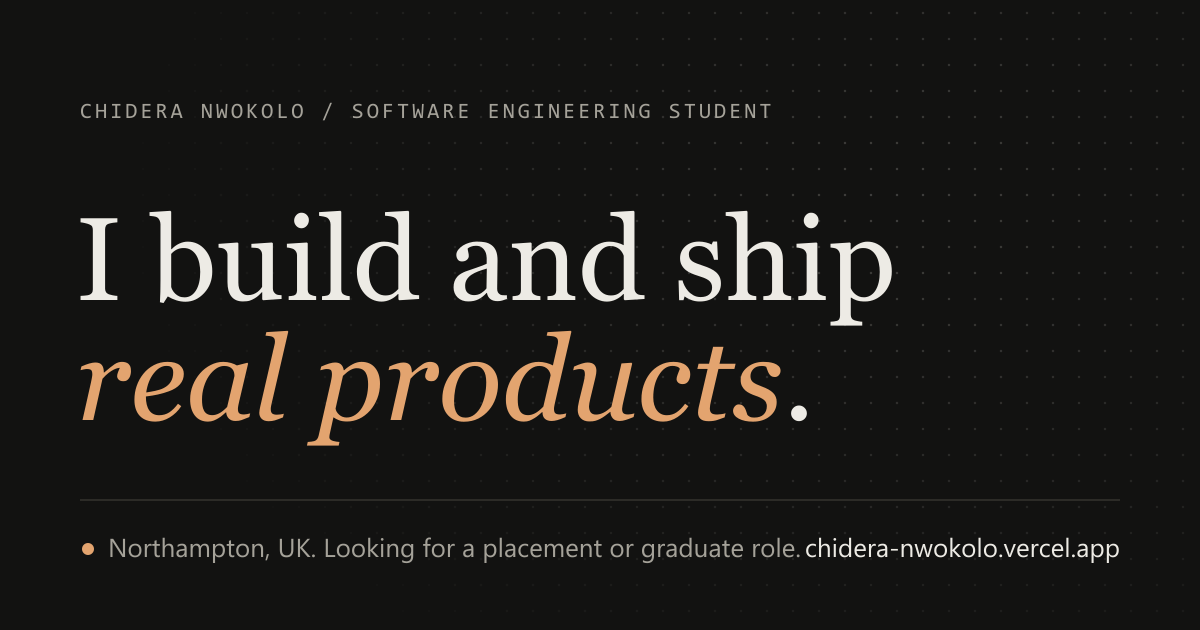
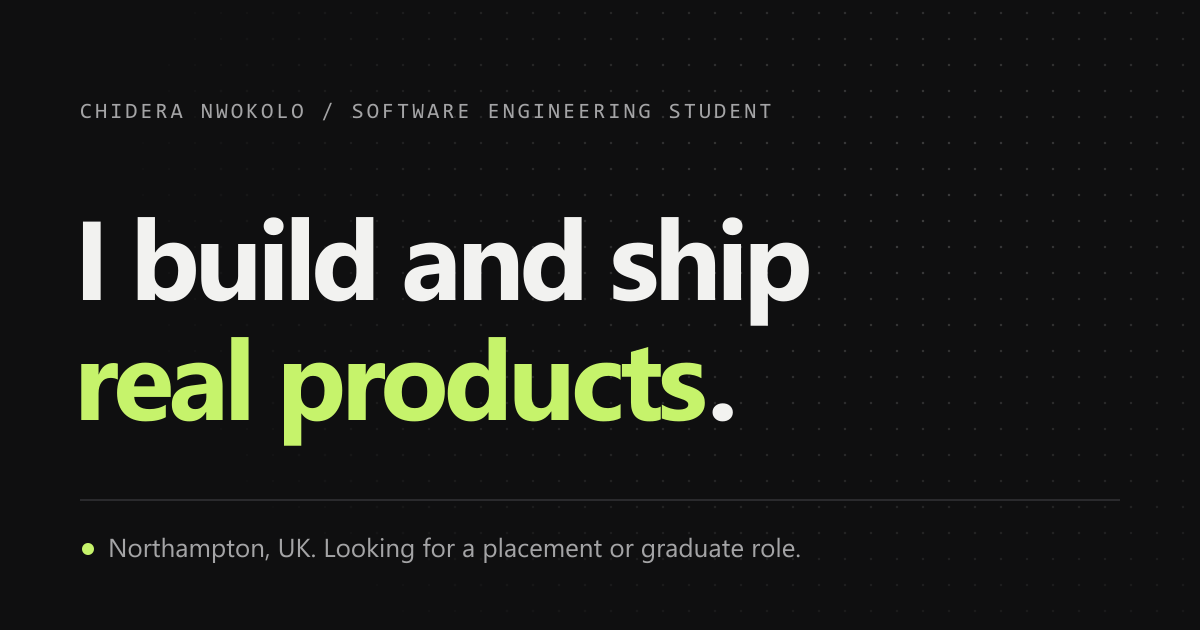
New visual identity: bold sans headlines, electric lime accent

diff --git a/src/index.css b/src/index.css
@@ -2,17 +2,17 @@
 
 /* Design tokens. Change the palette here and the whole site follows. */
 @theme {
-  --color-ink: #121211; /* page background, deep charcoal */
-  --color-surface: #181816; /* cards */
-  --color-raised: #1f1f1c; /* hover and inset areas */
-  --color-line: #2c2b27; /* hairlines */
-  --color-paper: #edebe5; /* main text, soft off-white */
-  --color-muted: #a5a299; /* secondary text, 7:1 on ink */
-  --color-subtle: #87857d; /* tertiary text, 4.9:1 on ink */
-  --color-accent: #e3a46f; /* the one accent, warm clay */
+  --color-ink: #0f0f10; /* page background, near-black */
+  --color-surface: #161617; /* cards */
+  --color-raised: #1e1e20; /* hover and inset areas */
+  --color-line: #2a2a2d; /* hairlines */
+  --color-paper: #f2f2f0; /* main text, clean white */
+  --color-muted: #a4a4a6; /* secondary text, 7.6:1 on ink */
+  --color-subtle: #87878a; /* tertiary text, 5.2:1 on ink */
+  --color-accent: #c6f36b; /* the one accent, electric lime */
 
   --font-sans: 'Geist', ui-sans-serif, system-ui, sans-serif;
-  --font-serif: 'Instrument Serif', ui-serif, Georgia, serif;
+  --font-display: 'Geist', ui-sans-serif, system-ui, sans-serif; /* headlines, set bold and tight */
   --font-mono: 'Geist Mono', ui-monospace, SFMono-Regular, Menlo, monospace;
 
   --ease-out-expo: cubic-bezier(0.22, 1, 0.36, 1);
@@ -33,6 +33,11 @@
     -webkit-font-smoothing: antialiased;
     -moz-osx-font-smoothing: grayscale;
     text-rendering: optimizeLegibility;
+  }
+
+  /* Accent words inside headlines are coloured, not italic. */
+  em {
+    font-style: normal;
   }
 
   ::selection {
@@ -78,7 +83,7 @@
   }
 
   .dot-spotlight {
-    background-image: radial-gradient(circle at center, rgb(227 164 111 / 0.7) 1px, transparent 1.6px);
+    background-image: radial-gradient(circle at center, rgb(198 243 107 / 0.65) 1px, transparent 1.6px);
     background-size: 26px 26px;
     mask-image: radial-gradient(220px circle at var(--mx, -500px) var(--my, -500px), #000, transparent 70%);
   }

diff --git a/index.html b/index.html
@@ -9,7 +9,7 @@
       content="Chidera Nwokolo, Software Engineering student at the University of Northampton. I build and ship real products, including DERA, a Buy Now Pay Later debt tracker. Looking for a placement or graduate role."
     />
     <meta name="author" content="Chidera Nwokolo" />
-    <meta name="theme-color" content="#121211" />
+    <meta name="theme-color" content="#0f0f10" />
     <link rel="canonical" href="https://chidera-nwokolo.vercel.app/" />
     <link rel="icon" href="/favicon.svg" type="image/svg+xml" />
     <link rel="apple-touch-icon" href="/apple-touch-icon.png" />
@@ -53,17 +53,17 @@
     <link rel="preconnect" href="https://fonts.gstatic.com" crossorigin />
     <link
       rel="stylesheet"
-      href="https://fonts.googleapis.com/css2?family=Geist:wght@300..600&family=Geist+Mono:wght@400;500&family=Instrument+Serif:ital@0;1&display=swap"
+      href="https://fonts.googleapis.com/css2?family=Geist:wght@300..700&family=Geist+Mono:wght@400;500&display=swap"
     />
     <style>
       /* Paint the page dark before CSS loads so there is no white flash. */
-      html { background: #121211; }
+      html { background: #0f0f10; }
     </style>
   </head>
   <body>
     <div id="root"></div>
     <noscript>
-      <p style="color:#edebe5;font-family:system-ui;padding:2rem">
+      <p style="color:#f2f2f0;font-family:system-ui;padding:2rem">
         Chidera Nwokolo, Software Engineering student. Email nwokolohenryjr8@gmail.com or see github.com/Derahenry.
       </p>
     </noscript>

diff --git a/src/components/Nav.tsx b/src/components/Nav.tsx
@@ -64,9 +64,9 @@ export function Nav() {
           <a href="#home" className="group flex items-center gap-2.5" aria-label={`${profile.name}, back to top`}>
             <span
               aria-hidden="true"
-              className="grid size-8 place-items-center rounded-full border border-line font-serif text-[0.95rem] italic text-accent transition-colors duration-300 group-hover:border-accent"
+              className="grid size-8 place-items-center rounded-full border border-line font-display text-[0.68rem] font-bold tracking-tight text-accent transition-colors duration-300 group-hover:border-accent"
             >
-              cn
+              CN
             </span>
             <span className="text-[0.95rem] font-medium tracking-tight">{profile.name}</span>
           </a>
@@ -152,7 +152,7 @@ export function Nav() {
                     ref={index === 0 ? firstLinkRef : undefined}
                     href={`#${item.id}`}
                     onClick={() => setOpen(false)}
-                    className="flex items-baseline gap-4 py-2 font-serif text-5xl text-paper"
+                    className="flex items-baseline gap-4 py-2 font-display font-semibold text-5xl tracking-[-0.04em] text-paper"
                     initial={{ y: '100%' }}
                     animate={{ y: '0%' }}
                     transition={{ duration: 0.6, ease, delay: 0.05 + index * 0.06 }}

diff --git a/src/components/projects/ProjectCard.tsx b/src/components/projects/ProjectCard.tsx
@@ -16,7 +16,7 @@ export function ProjectCard({ project, index }: { project: Project; index: numbe
           <span className="text-accent">{String(index + 1).padStart(2, '0')}</span>
           <span>{project.period}</span>
         </p>
-        <h3 id={headingId} className={`mt-4 font-serif leading-none tracking-tight ${compact ? 'text-4xl' : 'text-5xl'}`}>
+        <h3 id={headingId} className={`mt-4 font-display font-semibold leading-none tracking-[-0.045em] ${compact ? 'text-4xl' : 'text-[2.4rem] min-[400px]:text-[2.7rem] sm:text-5xl'}`}>
           {project.name}
         </h3>
         <p className="mt-2 text-paper/90">{project.tagline}</p>
@@ -34,7 +34,7 @@ export function ProjectCard({ project, index }: { project: Project; index: numbe
             {project.facts.map((fact) => (
               <div key={fact.label} className="flex flex-col-reverse gap-1">
                 <dt className="text-xs leading-snug text-muted">{fact.label}</dt>
-                <dd className="font-serif text-3xl text-paper">{fact.value}</dd>
+                <dd className="font-display font-semibold text-3xl tracking-[-0.04em] text-paper">{fact.value}</dd>
               </div>
             ))}
           </dl>

diff --git a/src/components/projects/FeaturedProject.tsx b/src/components/projects/FeaturedProject.tsx
@@ -23,7 +23,7 @@ export function FeaturedProject({ project, index }: { project: Project; index: n
               <span aria-hidden="true">·</span>
               <span>{project.period}</span>
             </p>
-            <h3 id={headingId} className="mt-5 font-serif text-6xl leading-none tracking-tight sm:text-7xl">
+            <h3 id={headingId} className="mt-5 font-display font-semibold text-6xl leading-none tracking-[-0.05em] sm:text-7xl">
               {project.name}
             </h3>
             <p className="mt-3 text-lg text-paper/90">{project.tagline}</p>
@@ -63,7 +63,7 @@ export function FeaturedProject({ project, index }: { project: Project; index: n
                 } ${i === 2 ? 'md:border-l' : ''}`}
               >
                 <dt className="text-sm text-muted">{fact.label}</dt>
-                <dd className="font-serif text-3xl text-paper sm:text-4xl">{fact.value}</dd>
+                <dd className="font-display font-semibold text-3xl tracking-[-0.04em] text-paper sm:text-4xl">{fact.value}</dd>
               </motion.div>
             ))}
           </motion.dl>

diff --git a/src/components/SectionHeading.tsx b/src/components/SectionHeading.tsx
@@ -10,7 +10,7 @@ type SectionHeadingProps = {
   id?: string
 }
 
-/** Numbered section header: "01 / Projects" over a large serif title. */
+/** Numbered section header: "01 / Projects" over a large bold title. */
 export function SectionHeading({ index, label, title, intro, id }: SectionHeadingProps) {
   return (
     <motion.header
@@ -28,7 +28,7 @@ export function SectionHeading({ index, label, title, intro, id }: SectionHeadin
       <motion.h2
         id={id}
         variants={fadeUp}
-        className="mt-5 max-w-3xl font-serif text-[2.6rem] leading-[1.02] tracking-[-0.01em] text-paper sm:text-6xl"
+        className="mt-5 max-w-3xl font-display font-semibold text-[2.4rem] leading-[1.02] tracking-[-0.045em] text-paper sm:text-[3.5rem]"
       >
         {title}
       </motion.h2>

diff --git a/src/sections/Hero.tsx b/src/sections/Hero.tsx
@@ -82,7 +82,7 @@ export function Hero() {
 
           <h1
             id="hero-title"
-            className="mt-5 font-serif text-[3.4rem] leading-[0.95] tracking-[-0.02em] text-paper min-[400px]:text-[4rem] sm:text-[5.5rem] lg:text-[7.5rem]"
+            className="mt-5 font-display font-semibold text-[2.6rem] leading-[0.98] tracking-[-0.05em] text-paper min-[400px]:text-[3rem] sm:text-[4.5rem] lg:text-[6.5rem]"
           >
             {headline.map((line, lineIndex) => (
               <span key={lineIndex} className="block overflow-hidden pb-[0.08em]">

diff --git a/src/sections/Contact.tsx b/src/sections/Contact.tsx
@@ -41,7 +41,7 @@ export function Contact() {
           </motion.p>
           <h2
             id="contact-title"
-            className="mt-6 font-serif text-[3.2rem] leading-[0.95] tracking-[-0.02em] sm:text-8xl lg:text-[8.5rem]"
+            className="mt-6 font-display font-semibold text-[2.4rem] leading-[0.98] tracking-[-0.05em] min-[400px]:text-[2.7rem] sm:text-6xl lg:text-[6.5rem]"
           >
             <span className="block overflow-hidden pb-[0.06em]">
               <motion.span variants={lineUp} className="block">

diff --git a/src/components/Button.tsx b/src/components/Button.tsx
@@ -31,7 +31,7 @@ const iconMotion: Record<Icon, string> = {
 
 const variants: Record<Variant, string> = {
   primary:
-    'h-12 px-6 rounded-full bg-paper text-ink hover:bg-accent font-medium',
+    'h-12 px-6 rounded-full bg-accent text-ink hover:bg-paper font-medium',
   outline:
     'h-12 px-6 rounded-full border border-line text-paper hover:border-paper/60 hover:bg-raised font-medium',
   text: 'py-1 text-paper/90 hover:text-accent underline decoration-line underline-offset-[6px] hover:decoration-accent',
